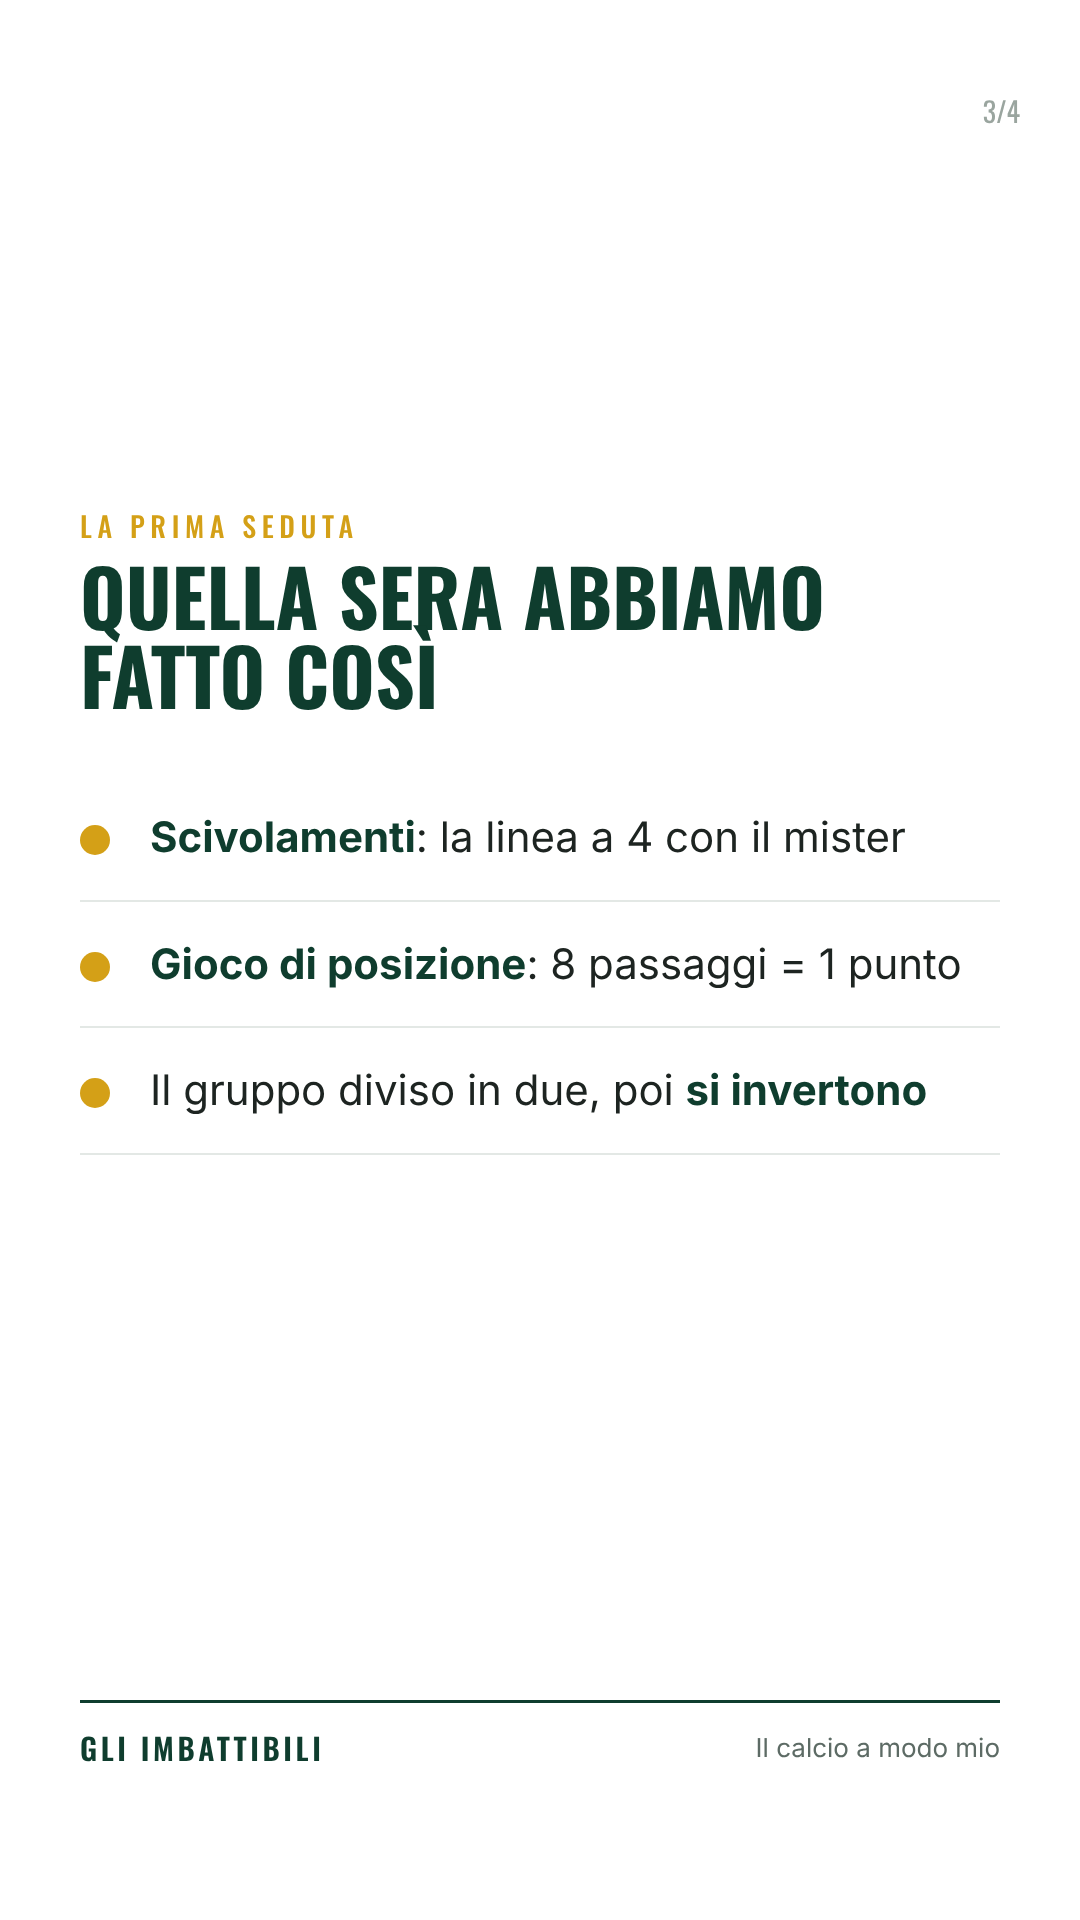
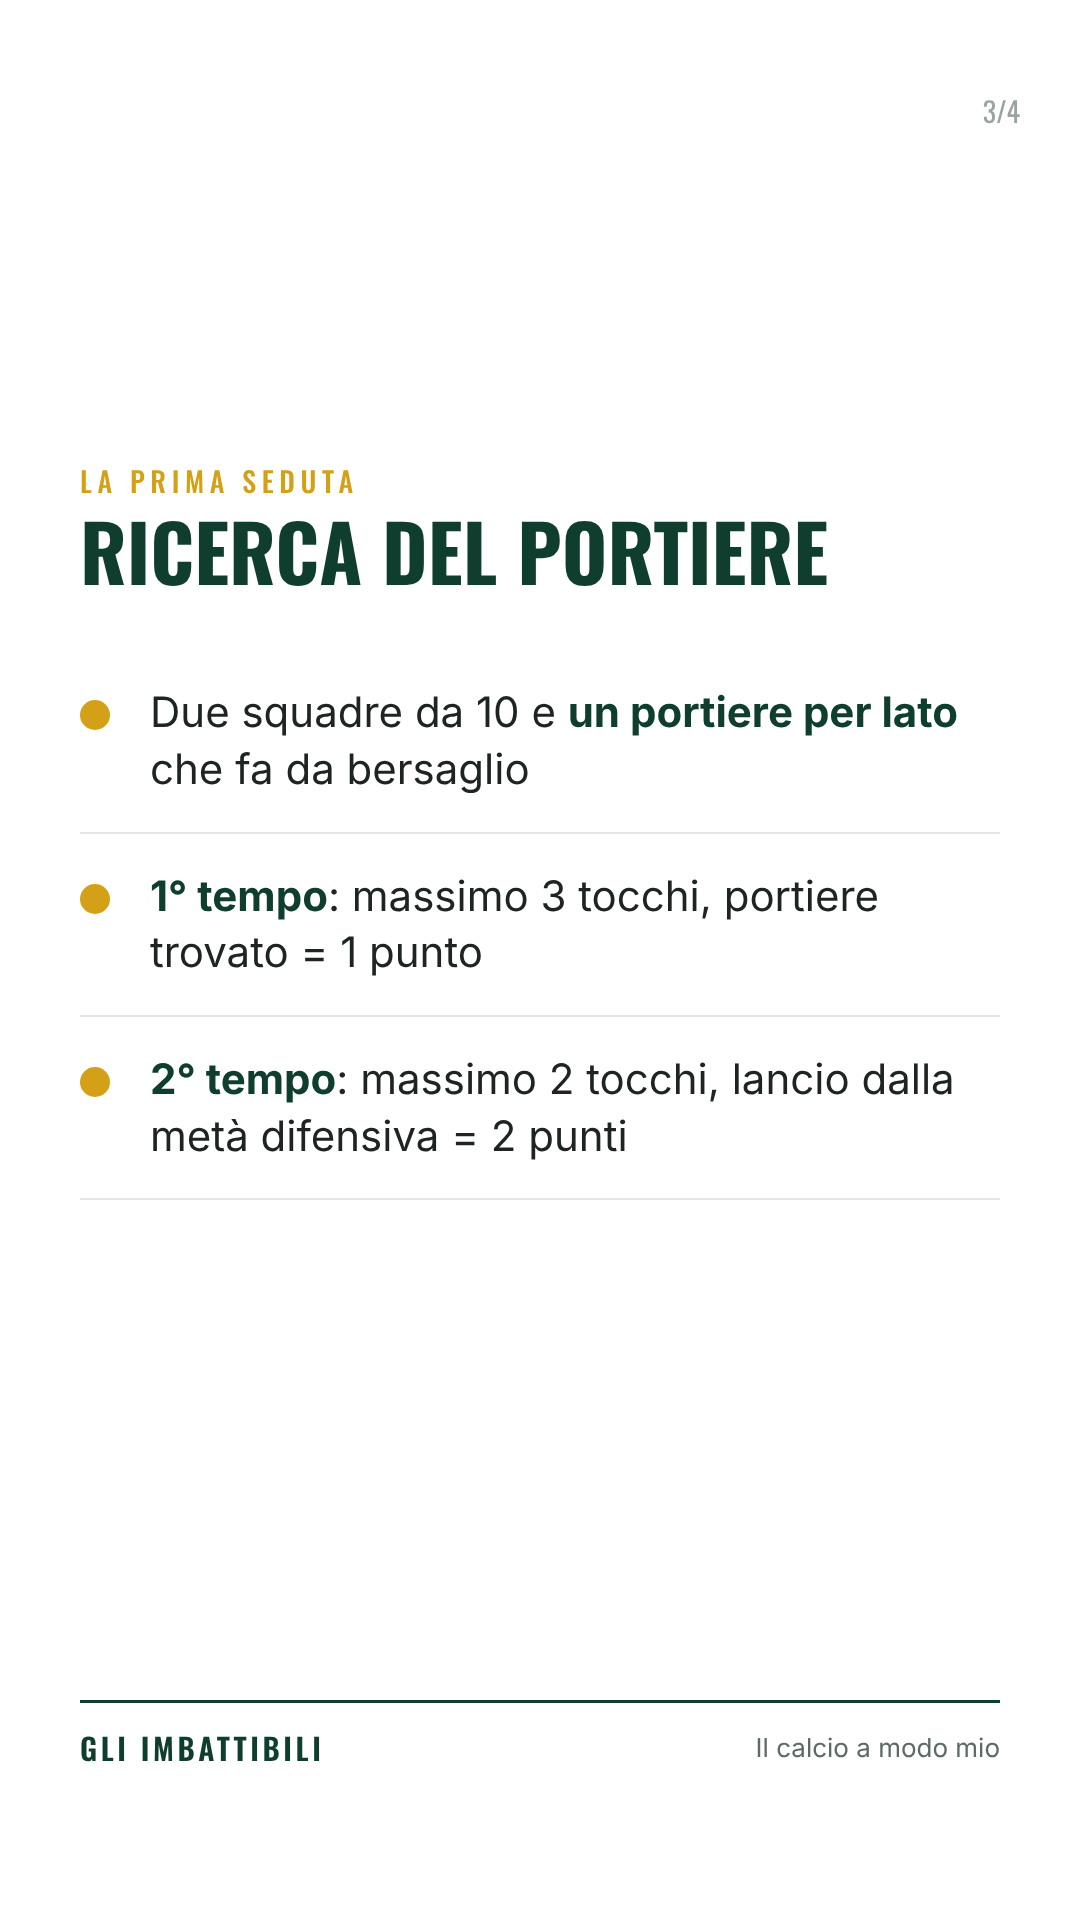
Ponte 1: programma della prima seduta e ricerca del portiere
Claude-Session: https://claude.ai/code/session_01C6jnkpg7j78s78of7Dc7AP

Changed region(s): [[0.0611, 0.25, 0.8861, 0.625]]

diff --git a/marketing/social/post-4x5.html b/marketing/social/post-4x5.html
@@ -218,27 +218,16 @@ h1, h2 { font-family: Oswald, sans-serif; font-weight: 700; text-transform: uppe
 </section>
 <section class="slide int">
   <div class="num">2/4</div>
-  <div class="kicker">Esercitazione</div>
+  <div class="kicker">Allenamento 1</div>
   <h2>La prima seduta</h2>
-  <div class="riq"><svg class="schema" viewBox="60 0 380 340">
-    <rect x="60" width="380" height="340" fill="url(#strisce)"/>
-    <rect x="110" y="30" width="280" height="280" fill="none" stroke="#fff" stroke-width="2.5"/>
-    <text x="250" y="332" font-family="Oswald" font-size="12" fill="#fff" text-anchor="middle">30 m</text>
-    <text x="415" y="175" font-family="Oswald" font-size="12" fill="#fff" text-anchor="middle">30 m</text>
-    <path d="M180,188 L240,117" stroke="#fff" stroke-width="2.5" fill="none" stroke-dasharray="7 5" marker-end="url(#freccia)"/><path d="M261,110 L361,214" stroke="#fff" stroke-width="2.5" fill="none" stroke-dasharray="7 5" marker-end="url(#freccia)"/>
-    <use href="#palla" x="190" y="214"/>
-    <use href="#pJ" x="250" y="30"/><text x="250" y="34.5" font-family="Oswald" font-size="13" font-weight="700" text-anchor="middle" fill="#1d2421">9</text><use href="#pJ" x="250" y="105"/><text x="250" y="109.5" font-family="Oswald" font-size="13" font-weight="700" text-anchor="middle" fill="#1d2421">10</text>
-    <use href="#pB" x="140" y="120"/><text x="140" y="124.5" font-family="Oswald" font-size="13" font-weight="700" text-anchor="middle" fill="#fff">11</text><use href="#pB" x="185" y="200"/><text x="185" y="204.5" font-family="Oswald" font-size="13" font-weight="700" text-anchor="middle" fill="#fff">4</text><use href="#pB" x="370" y="225"/><text x="370" y="229.5" font-family="Oswald" font-size="13" font-weight="700" text-anchor="middle" fill="#fff">2</text><use href="#pB" x="235" y="280"/><text x="235" y="284.5" font-family="Oswald" font-size="13" font-weight="700" text-anchor="middle" fill="#fff">5</text>
-    <use href="#pA" x="360" y="110"/><text x="360" y="114.5" font-family="Oswald" font-size="13" font-weight="700" text-anchor="middle" fill="#fff">7</text><use href="#pA" x="235" y="190"/><text x="235" y="194.5" font-family="Oswald" font-size="13" font-weight="700" text-anchor="middle" fill="#fff">8</text><use href="#pA" x="140" y="275"/><text x="140" y="279.5" font-family="Oswald" font-size="13" font-weight="700" text-anchor="middle" fill="#fff">3</text><use href="#pA" x="305" y="270"/><text x="305" y="274.5" font-family="Oswald" font-size="13" font-weight="700" text-anchor="middle" fill="#fff">6</text>
-  </svg></div>
-  <p class="desc">Un gruppo con il mister sulla <b>linea difensiva</b>. L'altro nel <b>gioco di posizione</b>: <b>4 contro 4 + 2 jolly</b> in un quadrato di 30 × 30 m. Poi si invertono.</p>
+  <ul class="punti"><li><b>10'</b> Riscaldamento</li><li><b>30'</b> Partita “ricerca del portiere”</li><li><b>20'</b> Circuito atletico</li><li><b>2 × 15-20'</b> Lavoro a gruppi: linea difensiva e gioco di posizione</li><li><b>5'</b> Defaticamento</li></ul>
   <div class="marchio"><b>GLI IMBATTIBILI</b><span>Il calcio a modo mio</span></div>
 </section>
 <section class="slide int">
   <div class="num">3/4</div>
   <div class="kicker">La prima seduta</div>
-  <h2>Quella sera abbiamo fatto così</h2>
-  <ul class="punti"><li><b>Scivolamenti</b>: la linea a 4 con il mister</li><li><b>Gioco di posizione</b>: 8 passaggi = 1 punto</li><li>Il gruppo diviso in due, poi <b>si invertono</b></li></ul>
+  <h2>Ricerca del portiere</h2>
+  <ul class="punti"><li>Due squadre da 10 e <b>un portiere per lato</b> che fa da bersaglio</li><li><b>1° tempo</b>: massimo 3 tocchi, portiere trovato = 1 punto</li><li><b>2° tempo</b>: massimo 2 tocchi, lancio dalla metà difensiva = 2 punti</li></ul>
   <div class="marchio"><b>GLI IMBATTIBILI</b><span>Il calcio a modo mio</span></div>
 </section>
 <section class="slide fine">

diff --git a/marketing/social/post-9x16.html b/marketing/social/post-9x16.html
@@ -218,27 +218,16 @@ h1, h2 { font-family: Oswald, sans-serif; font-weight: 700; text-transform: uppe
 </section>
 <section class="slide int">
   <div class="num">2/4</div>
-  <div class="kicker">Esercitazione</div>
+  <div class="kicker">Allenamento 1</div>
   <h2>La prima seduta</h2>
-  <div class="riq"><svg class="schema" viewBox="60 0 380 340">
-    <rect x="60" width="380" height="340" fill="url(#strisce)"/>
-    <rect x="110" y="30" width="280" height="280" fill="none" stroke="#fff" stroke-width="2.5"/>
-    <text x="250" y="332" font-family="Oswald" font-size="12" fill="#fff" text-anchor="middle">30 m</text>
-    <text x="415" y="175" font-family="Oswald" font-size="12" fill="#fff" text-anchor="middle">30 m</text>
-    <path d="M180,188 L240,117" stroke="#fff" stroke-width="2.5" fill="none" stroke-dasharray="7 5" marker-end="url(#freccia)"/><path d="M261,110 L361,214" stroke="#fff" stroke-width="2.5" fill="none" stroke-dasharray="7 5" marker-end="url(#freccia)"/>
-    <use href="#palla" x="190" y="214"/>
-    <use href="#pJ" x="250" y="30"/><text x="250" y="34.5" font-family="Oswald" font-size="13" font-weight="700" text-anchor="middle" fill="#1d2421">9</text><use href="#pJ" x="250" y="105"/><text x="250" y="109.5" font-family="Oswald" font-size="13" font-weight="700" text-anchor="middle" fill="#1d2421">10</text>
-    <use href="#pB" x="140" y="120"/><text x="140" y="124.5" font-family="Oswald" font-size="13" font-weight="700" text-anchor="middle" fill="#fff">11</text><use href="#pB" x="185" y="200"/><text x="185" y="204.5" font-family="Oswald" font-size="13" font-weight="700" text-anchor="middle" fill="#fff">4</text><use href="#pB" x="370" y="225"/><text x="370" y="229.5" font-family="Oswald" font-size="13" font-weight="700" text-anchor="middle" fill="#fff">2</text><use href="#pB" x="235" y="280"/><text x="235" y="284.5" font-family="Oswald" font-size="13" font-weight="700" text-anchor="middle" fill="#fff">5</text>
-    <use href="#pA" x="360" y="110"/><text x="360" y="114.5" font-family="Oswald" font-size="13" font-weight="700" text-anchor="middle" fill="#fff">7</text><use href="#pA" x="235" y="190"/><text x="235" y="194.5" font-family="Oswald" font-size="13" font-weight="700" text-anchor="middle" fill="#fff">8</text><use href="#pA" x="140" y="275"/><text x="140" y="279.5" font-family="Oswald" font-size="13" font-weight="700" text-anchor="middle" fill="#fff">3</text><use href="#pA" x="305" y="270"/><text x="305" y="274.5" font-family="Oswald" font-size="13" font-weight="700" text-anchor="middle" fill="#fff">6</text>
-  </svg></div>
-  <p class="desc">Un gruppo con il mister sulla <b>linea difensiva</b>. L'altro nel <b>gioco di posizione</b>: <b>4 contro 4 + 2 jolly</b> in un quadrato di 30 × 30 m. Poi si invertono.</p>
+  <ul class="punti"><li><b>10'</b> Riscaldamento</li><li><b>30'</b> Partita “ricerca del portiere”</li><li><b>20'</b> Circuito atletico</li><li><b>2 × 15-20'</b> Lavoro a gruppi: linea difensiva e gioco di posizione</li><li><b>5'</b> Defaticamento</li></ul>
   <div class="marchio"><b>GLI IMBATTIBILI</b><span>Il calcio a modo mio</span></div>
 </section>
 <section class="slide int">
   <div class="num">3/4</div>
   <div class="kicker">La prima seduta</div>
-  <h2>Quella sera abbiamo fatto così</h2>
-  <ul class="punti"><li><b>Scivolamenti</b>: la linea a 4 con il mister</li><li><b>Gioco di posizione</b>: 8 passaggi = 1 punto</li><li>Il gruppo diviso in due, poi <b>si invertono</b></li></ul>
+  <h2>Ricerca del portiere</h2>
+  <ul class="punti"><li>Due squadre da 10 e <b>un portiere per lato</b> che fa da bersaglio</li><li><b>1° tempo</b>: massimo 3 tocchi, portiere trovato = 1 punto</li><li><b>2° tempo</b>: massimo 2 tocchi, lancio dalla metà difensiva = 2 punti</li></ul>
   <div class="marchio"><b>GLI IMBATTIBILI</b><span>Il calcio a modo mio</span></div>
 </section>
 <section class="slide fine">

diff --git a/marketing/social/genera-post.py b/marketing/social/genera-post.py
@@ -127,13 +127,17 @@ POST = [
     dict(
         n=4, foto="allenamento-01.jpg", ponte=True,
         gancio="Ci chiesero<span>il quinto posto</span>",
-        schema=schema_gioco,
+        kicker2="Allenamento 1",
         titolo2="La prima seduta",
-        testo2="Un gruppo con il mister sulla <b>linea difensiva</b>. L'altro nel <b>gioco di posizione</b>: <b>4 contro 4 + 2 jolly</b> in un quadrato di 30 × 30 m. Poi si invertono.",
-        titolo3="Quella sera abbiamo fatto così",
-        punti=["<b>Scivolamenti</b>: la linea a 4 con il mister",
-               "<b>Gioco di posizione</b>: 8 passaggi = 1 punto",
-               "Il gruppo diviso in due, poi <b>si invertono</b>"],
+        lista2=["<b>10'</b> Riscaldamento",
+                "<b>30'</b> Partita “ricerca del portiere”",
+                "<b>20'</b> Circuito atletico",
+                "<b>2 × 15-20'</b> Lavoro a gruppi: linea difensiva e gioco di posizione",
+                "<b>5'</b> Defaticamento"],
+        titolo3="Ricerca del portiere",
+        punti=["Due squadre da 10 e <b>un portiere per lato</b> che fa da bersaglio",
+               "<b>1° tempo</b>: massimo 3 tocchi, portiere trovato = 1 punto",
+               "<b>2° tempo</b>: massimo 2 tocchi, lancio dalla metà difensiva = 2 punti"],
         fine_sub="Vuoi l'allenamento completo con gli schemi? Scrivi <b>PRECAMPIONATO</b> nei commenti. La storia di quella stagione è nel libro.",
         azioni=["Scrivi PRECAMPIONATO", "Il libro è nel link in bio"],
     ),
@@ -146,6 +150,24 @@ def slides(p, tot=4):
     num = lambda i: f'<div class="num">{i}/{tot}</div>'
     marchio = '<div class="marchio"><b>GLI IMBATTIBILI</b><span>Il calcio a modo mio</span></div>'
     punti = "".join(f"<li>{x}</li>" for x in p["punti"])
+    if p.get("lista2"):
+        lista2 = "".join(f"<li>{x}</li>" for x in p["lista2"])
+        slide2 = f'''<section class="slide int">
+  {num(2)}
+  <div class="kicker">{p["kicker2"]}</div>
+  <h2>{p["titolo2"]}</h2>
+  <ul class="punti">{lista2}</ul>
+  {marchio}
+</section>'''
+    else:
+        slide2 = f'''<section class="slide int">
+  {num(2)}
+  <div class="kicker">Esercitazione</div>
+  <h2>{p["titolo2"]}</h2>
+  <div class="riq">{p["schema"]}</div>
+  <p class="desc">{p["testo2"]}</p>
+  {marchio}
+</section>'''
     return f'''
 <section class="slide cop{' cs' if p.get('cop_schema') else ''}">
   <img class="bgimg" src="{MAT}/precampionato/{p["foto"]}">
@@ -159,14 +181,7 @@ def slides(p, tot=4):
     <div class="scorri">Scorri →</div>
   </div>
 </section>
-<section class="slide int">
-  {num(2)}
-  <div class="kicker">Esercitazione</div>
-  <h2>{p["titolo2"]}</h2>
-  <div class="riq">{p["schema"]}</div>
-  <p class="desc">{p["testo2"]}</p>
-  {marchio}
-</section>
+{slide2}
 <section class="slide int">
   {num(3)}
   <div class="kicker">{p["titolo2"]}</div>
